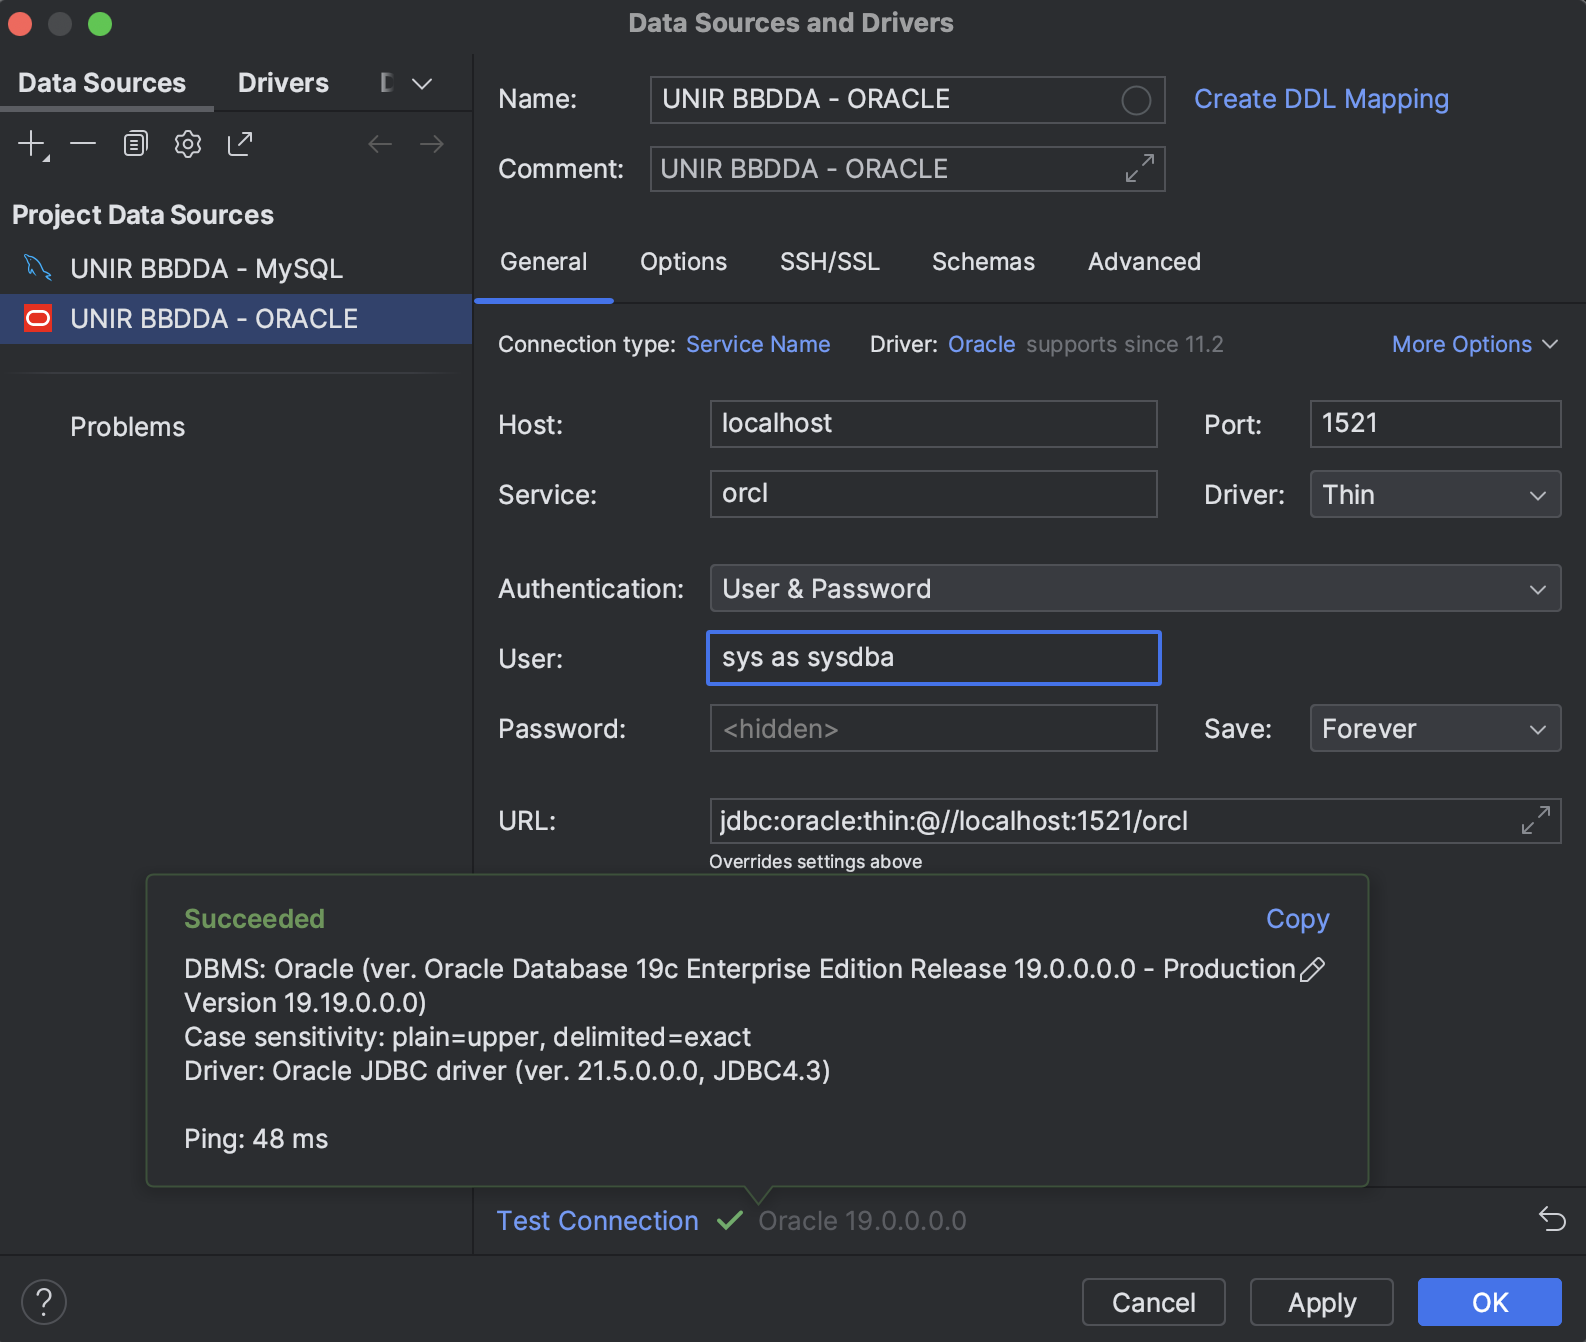
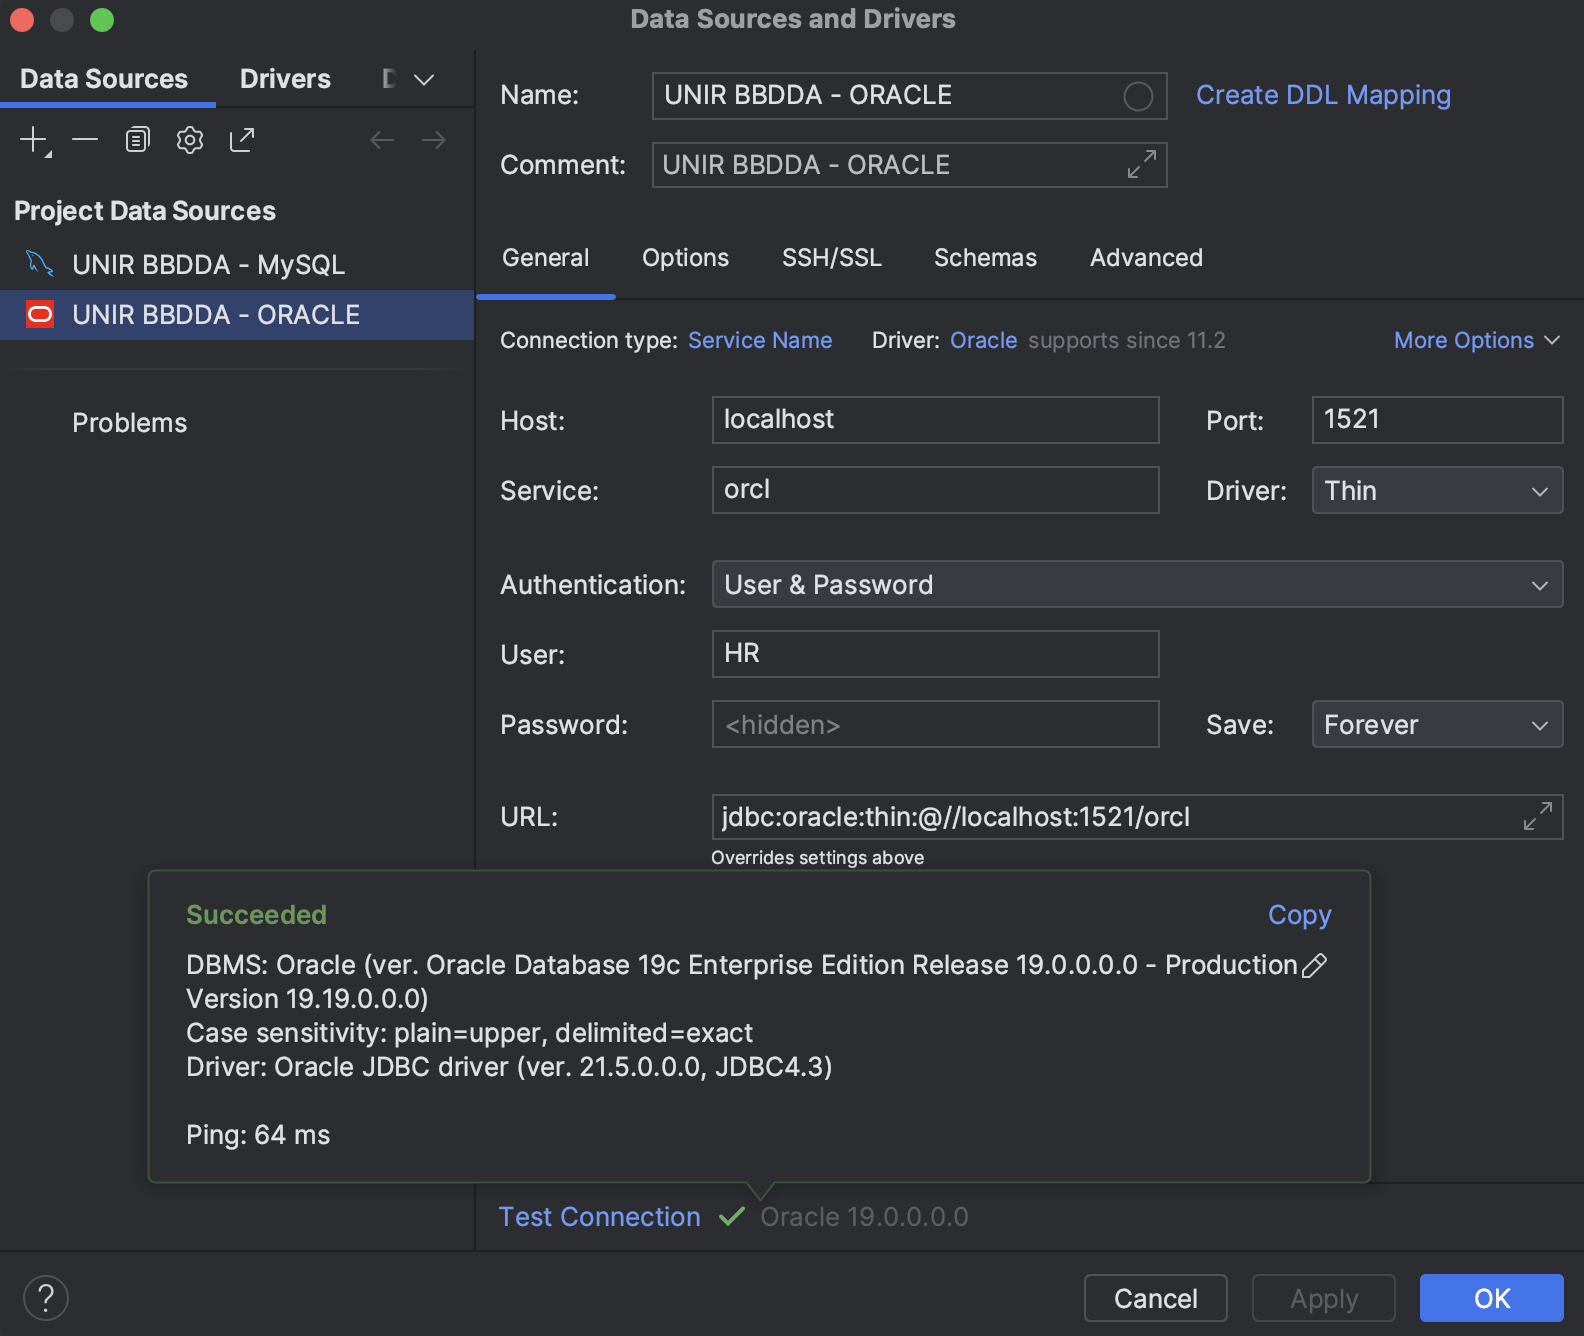
T1

diff --git a/Tema_1/Readme.md b/Tema_1/Readme.md
@@ -66,3 +66,82 @@ https://raw.githubusercontent.com/UnirCs/BBDD-PER8263-2324/master/Tema_1/00_Reso
 
 # 3. Instalación de Oracle Database 19c
 
+1. En este caso somos nosotros los que tendremos que generar la imagen docker de la base de datos para poder crear luego un contenedor a partir de ella. Lo primero que haremos será descargar los binarios de la base de datos Oracle Database 19c. Para ello iremos a su [centro de descargas](https://www.oracle.com/es/downloads/):
+
+     <img src="https://raw.githubusercontent.com/UnirCs/BBDD-PER8263-2324/master/Tema_1/00_Resources/ora1_download.png">
+
+2. Para poder descargar software de Oracle es necesario disponer de una cuenta por lo que crearemos una (puedes utilizar la dirección de correo electrónico que quieras).
+3. Una vez que estemos dentro del centro de descargas, buscaremos el producto ``Oracle Database 19c`` tal como se muestra en la imagen.
+
+     <img src="https://raw.githubusercontent.com/UnirCs/BBDD-PER8263-2324/master/Tema_1/00_Resources/ora2_download.png">
+
+4. Seleccionaremos la versión ``Enterprise Edition``.
+
+     <img src="https://raw.githubusercontent.com/UnirCs/BBDD-PER8263-2324/master/Tema_1/00_Resources/ora3_download.png">
+
+5. Haremos click en "Continue" arriba a la derecha y pasaremos al chekout. Desmarcaremos todas las opciones a excepción de la base de datos en sí que es lo único que nos interesa descargar. En este punto es importante seleccionar la plataforma que corresponda con nuestro ordenador. Si nuestro procesador es ARM (por ejemplo, los últimos Mac de Apple) debemos elegir la opción ``Linux ARM 64-bit``. Si nuestra máquina tiene una arquitectura X86-64 seleccionamos la opción ``Linux x86-64``. En ningún caso seleccionaremos otra plataforma.
+
+     <img src="https://raw.githubusercontent.com/UnirCs/BBDD-PER8263-2324/master/Tema_1/00_Resources/ora4_download.png">
+
+6. Una vez que haya finalizado la descarga (puede tardar unos minutos) no descomprimiremos el ZIP descargado, si no que lo renombraremos, en funcion de la arquitectura de nuestro procesador.
+     
+    - ``LINUX.X64_193000_db_home.zip`` si nuestra arquitectura es X86-64.
+    - ``LINUX.ARM64_1919000_db_home.zip`` si nuestra arquitectura es ARM. 
+
+7. Descargamos el [repositorio de imágenes de Docker de Oracle](https://github.com/oracle/docker-images) de la misma forma que hicimos en el caso de la base de datos de ejemplo para MySQL.
+8. Una vez descargado el repositorio, navegamos hasta la carpeta /OracleDatabase/SingleInstance/dockerfiles/19.3.0/ y copiamos ahí el archivo ZIP de la base de datos de Oracle que hemos descargado anteriormente, junto con el resto de binarios de la instalación.
+
+     <img src="https://raw.githubusercontent.com/UnirCs/BBDD-PER8263-2324/master/Tema_1/00_Resources/ora5_folder.png">
+
+9. Ejecutamos el script ``buildContainerImage.sh`` Esto creará una imagen Docker que podremos usar para crear un contenedor (esto puede tardar varios minutos, dependiendo de tu conexión a internet y la eficiencia de tu máquina).
+   
+       ./buildContainerImage.sh -v 19.3.0 -e (Para ordenadores basados en UNIX)
+       sh buildContainerImage.sh -v 19.3.0 -e (Para ordenadores con Windows y Git Bash, Cygwin o SubSystem instalado)
+
+     <img src="https://raw.githubusercontent.com/UnirCs/BBDD-PER8263-2324/master/Tema_1/00_Resources/ora6_build.png">
+
+10. Creamos el contenedor para la base de datos. Estamos creándolo con 4 GB de Memoria. Asegúrate de tener recursos suficientes en tu máquina. El nombre del contenedor será ``oracle19cbbdda``. Expondremos en el puerto ``1521`` de nuestra máquina local el tráfico del mismo puerto del contendor. Lo mismo para el puerto ``5500``. El nombre de servicio default es ``orcl`` y la password de administrador es ``oracle``.
+
+        docker run --name oracle19cbbdda -p 1521:1521 -p 5500:5500 -e ORACLE_PDB=orcl -e ORACLE_PWD=oracle -e ORACLE_MEM=4000 -v /opt/oracle/oradata -d oracle/database:19.3.0-ee
+
+11. Si entramos al contenedor haciendo click en su nombre (desde Docker Desktop), veremos los logs de ejecucion del mismo. Una vez veamos el siguiente texto, la base de datos estará lista (esto puede tardar varios minutos, dependiendo de tu conexión a internet y la eficiencia de tu máquina):
+
+       #########################
+       DATABASE IS READY TO USE!
+       #########################
+
+12. A continuación instalaremos el Schema de pruebas para nuestros ejercicios. Se trata del Schema HR de Oracle. Ejecutaremos, dentro de la consola del contenedor, el comando:
+       
+        sqlplus sys/oracle@//localhost:1521/orcl as sysdba
+
+13. Si eso nos diese error de acceso, tendremos que dar valor a la variable de entorno ``ORACLE_SID``. Para ello, ejecutaremos el comando:
+
+        export ORACLE_SID=orcl
+
+14. Una vez dentro de SQLPLUS (lo sabremos porque el prompt pasa a ser ``SQL>``) ejecutaremos el siguiente comando, que nos pedirá varios argumentos de forma interactiva.
+
+        @?/demo/schema/human_resources/hr_main.sql
+    
+    - Valor del primer argumento (contraseña de la db HR): ``oracle``
+
+    - Valor del segundo argumento (tablespace): ``USERS``
+
+    - Valor del tercer argumento (almacenamiento temporal): ``TEMP``
+
+    - Valor del cuarto argumento (destino de logs): ``$ORACLE_HOME/demo/schema/log/``
+
+    <img src="https://raw.githubusercontent.com/UnirCs/BBDD-PER8263-2324/master/Tema_1/00_Resources/ora7_conexionCreacionHr.png">
+
+15. Una vez finalizada la ejecución del script, la base de datos estará lista para ser utilizada. Podemos comprobarlo conectándonos a ella y ejecutando una consulta a través de DataGrip.
+
+    - Creamos la conexión a la base de datos de Oracle en DataGrip. Para ello, en la parte superior izquierda de la aplicación, le damos al símbolo ``+`` para crear una nueva conexión. En este caso, ``Oracle``.
+     
+      <img src="https://raw.githubusercontent.com/UnirCs/BBDD-PER8263-2324/master/Tema_1/00_Resources/ora8_datagrip.png">
+
+    - Introducimos los datos necesarios teniendo en cuenta los valores que usamos durante la creación del contenedor (usuario ``HR`` y contraseña ``oracle``). El servicio es ``orcl`` y el host siempre será localhost. El puerto es ``1521`` puesto que ese fue el que expusimos al exterior en nuestro contenedor. Asegúrate de que el tipo de conexión sea mediante ``Service Name``.
+     
+      <img src="https://raw.githubusercontent.com/UnirCs/BBDD-PER8263-2324/master/Tema_1/00_Resources/ora9_datagrip.png">
+
+    - Ejecutamos una consulta a modo de prueba para ver que la conexión efectivamente funciona.
+     
+      <img src="https://raw.githubusercontent.com/UnirCs/BBDD-PER8263-2324/master/Tema_1/00_Resources/ora10_datagrip.png">
